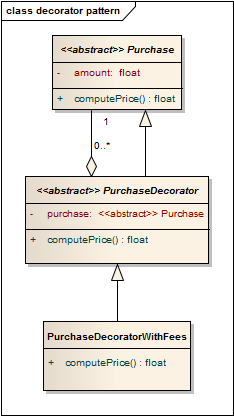
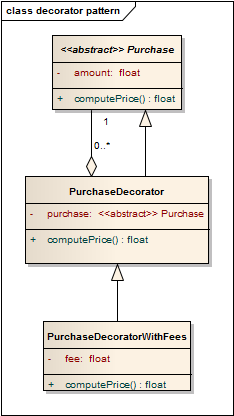
patterns

diff --git a/Assignment 2/Report/detailed_design.tex b/Assignment 2/Report/detailed_design.tex
@@ -31,7 +31,7 @@ The skeletons are written in Java.
 \subsubsection{Template Method}
 \begin{figure}[H]
  \centering
- \includegraphics[width=0.8\textwidth]{../templateMethod.png}
+ \includegraphics[width=0.75\textwidth]{../templateMethod.png}
 \end{figure}
 
 \lstinputlisting[language=java, inputencoding=utf8]{../templateMethod.java}
@@ -45,3 +45,31 @@ The skeletons are written in Java.
 \lstinputlisting[language=java, inputencoding=utf8]{../strategyPattern.java}
 
 
+\subsubsection{Decorator Pattern}
+\begin{figure}[H]
+ \centering
+ \includegraphics[width=0.35\textwidth]{../decoratorPattern.png}
+\end{figure}
+
+\lstinputlisting[language=java, inputencoding=utf8]{../decoratorPattern.java}
+
+
+\subsubsection{Observer Pattern}
+\begin{figure}[H]
+ \centering
+ \includegraphics[width=0.9\textwidth]{../observatorPattern.png}
+\end{figure}
+
+\lstinputlisting[language=java, inputencoding=utf8]{../observatorPattern.java}
+
+
+\subsubsection{Composite Pattern}
+\begin{figure}[H]
+ \centering
+ \includegraphics[width=0.8\textwidth]{../compositePattern.png}
+\end{figure}
+
+\lstinputlisting[language=java, inputencoding=utf8]{../compositePattern.java}
+
+We can see in the snippet of code above where the new methods are implemented.
+But the existing methods (the getters and setters for the bank account in this case) are implemented in the SingleAccount class. If we had other pre-existing methods in the Account, they would be implemented in the new SingleAccount class and also in the CompanyAccount. To call those methods, the developer should have a reference to the concrete object, not the new Account interface (because it does not define other methods than \textit{getRemainingBalance()}.

diff --git a/Assignment 2/decoratorPattern.java b/Assignment 2/decoratorPattern.java
@@ -1,0 +1,35 @@
+public abstract class Purchase {
+  private float amount;
+
+  public float computePrice(){
+    // default implementation
+  }
+}
+
+public PurchaseDecorator extends Purchase {
+  private Purchase purchase;
+
+  // ... getter and setter for the purchase + special constructor
+
+  public float computePrice(){
+    return purchase.computePrice();
+  }
+}
+
+public PurchaseDecoratorFees extends PurchaseDecorator {
+  private float fee;
+
+  // ... getter and setter for fee + special constructor
+
+  public float computePrice(){
+    float defaultPrice = super.computePrice();
+    return defaultPrice + fee;
+  }
+}
+
+//-----------------------------------------------------------------
+// Usage example to add fee to credit purchase
+//-----------------------------------------------------------------
+CreditPurchase creditPurchase = new CreditPurchase();
+CreditPurchase creditPurchaseWithFee = new PurchaseDecoratorFees(creditPurchase, 50.0);
+float price = creditPurchaseWithFee.computePrice();

diff --git a/Assignment 2/observatorPattern.java b/Assignment 2/observatorPattern.java
@@ -1,0 +1,44 @@
+public interface Observer {
+  public void notify(Observable obs);
+}
+
+public class FuelStock implements Observer {
+  // ...
+  public void notify(Observable obs){
+    GasPumpController ctrl = (GasPumpController) obs;
+    //update the stock
+  }
+}
+
+public class PaymentController implements Observer {
+  // ...
+  public void notify(Observable obs){
+    GasPumpController ctrl = (GasPumpController) obs;
+    //update the stock
+  }
+}
+
+public abstract class Observable {
+  private List<Observer> observers;
+
+  public void register(Observer obs){
+    observers.add(obs);
+  }
+
+  public void unregister(Observer obs){
+    observers.remove(obs);
+  }
+
+  public void notifyObservers(){
+    for(Observer obs : observers){
+      obs.notify(this);
+    }
+  }
+}
+
+public class GasPumpController extends Observable {
+  // ...
+  // This class is unchanged, except that it must call
+  // the notifyObservers method when its state changes
+  // and that it extends Observable
+}

diff --git a/Assignment 2/compositePattern.java b/Assignment 2/compositePattern.java
@@ -1,0 +1,32 @@
+public interface Account {
+  public float getRemainingBalance();
+}
+
+public class CompanyAccount implements Account {
+  private List<Account> accounts;
+
+  public void addAccount(Account account){
+    accounts.add(account);
+  }
+
+  public void removeAccount(Account account){
+    accounts.remove(account);
+  }
+
+  public float getRemainingBalance(){
+    float sum = 0.0f;
+    for(Account account : accounts){
+      sum += account.getRemainingBalance();
+    }
+    return sum;
+  }
+}
+
+public class SingleAccount implements Account {
+  private IBAN accountNumber;
+  // ... getter and setter
+
+  public float getRemainingBalance(){
+    // return the remaining balance
+  }
+}
